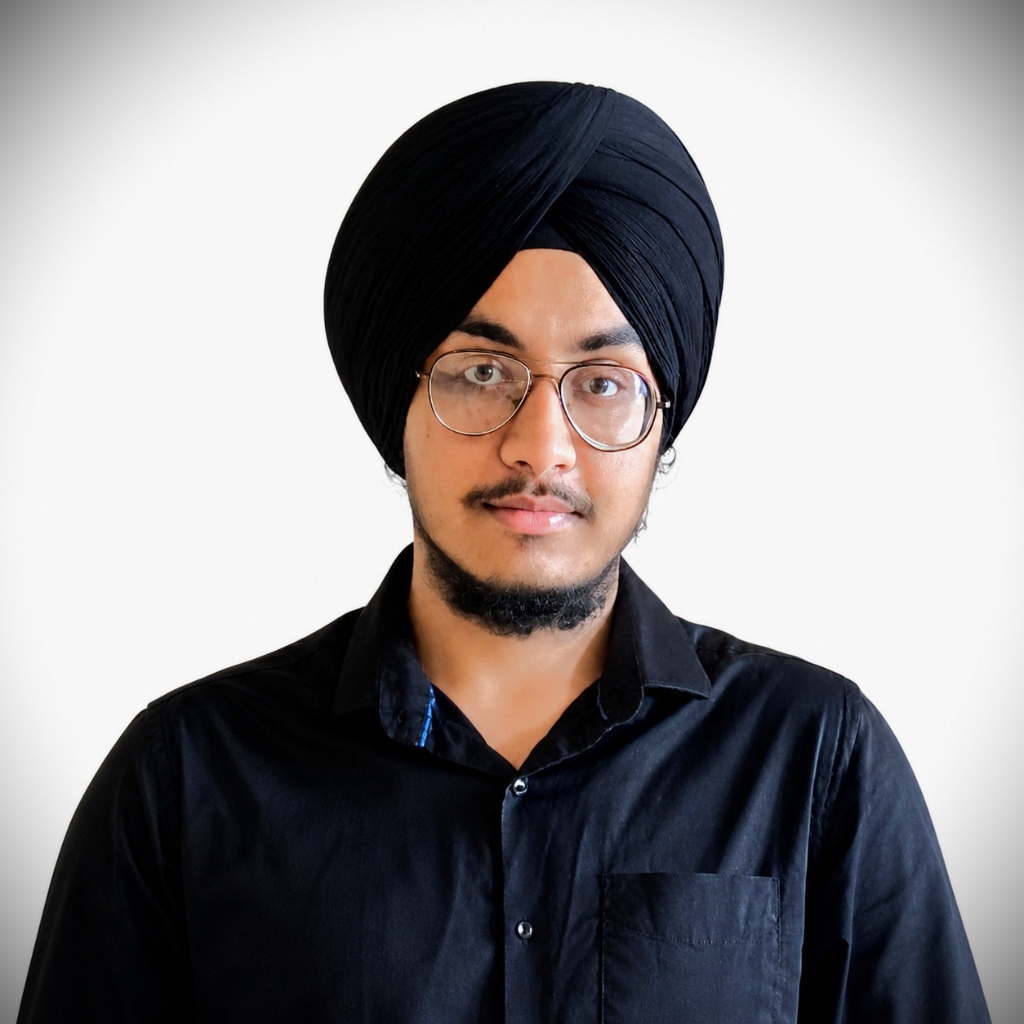
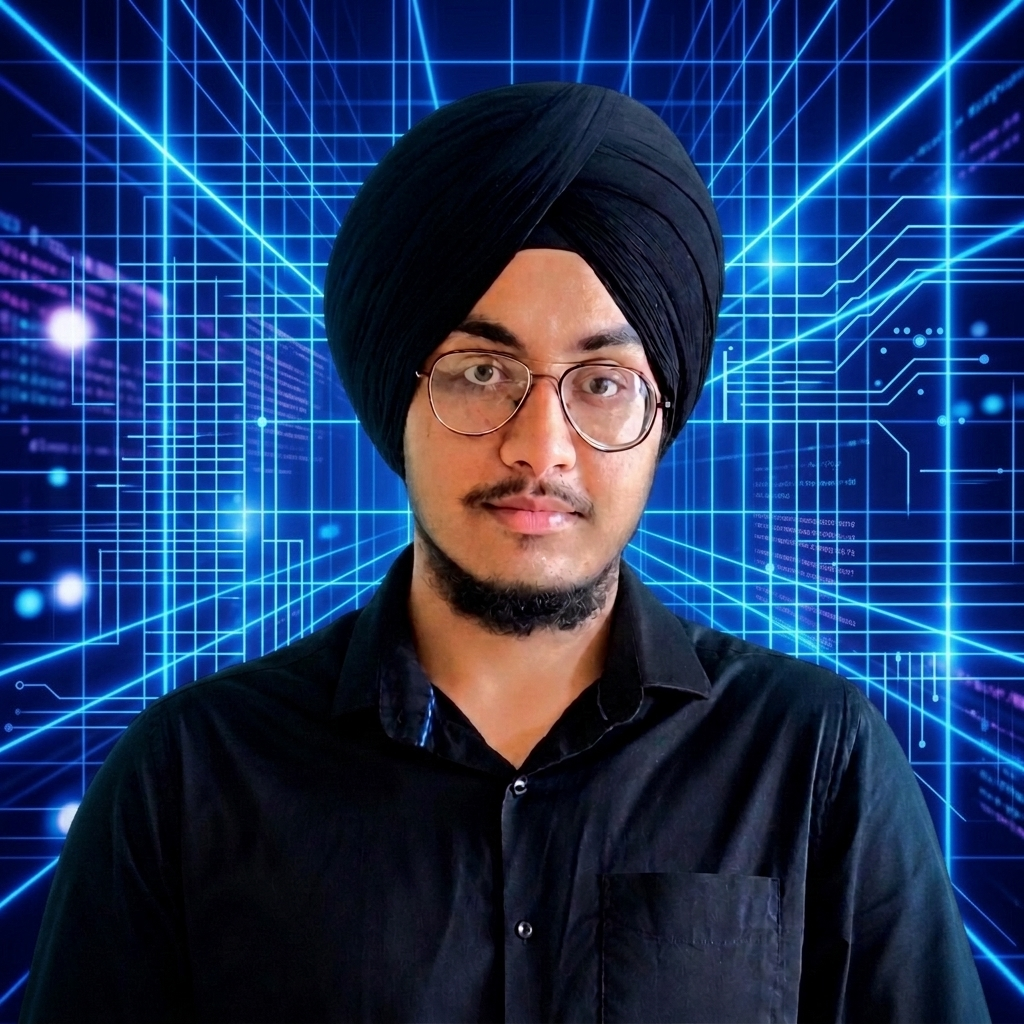
minor changes

diff --git a/app/components/TechStack.tsx b/app/components/TechStack.tsx
@@ -127,6 +127,9 @@ export default function TechStack() {
       id="skills"
       className="relative w-full py-20 md:py-28 px-6 sm:px-12 overflow-hidden flex items-center justify-center bg-transparent z-0"
     >
+      {/* Subtle Blue Atmosphere Continuation (barely noticeable top-left corner glow) */}
+      <div className="absolute top-0 left-0 w-[450px] h-[450px] rounded-full bg-blue-600/3 blur-[120px] pointer-events-none z-0" />
+
       {/* Moving Ambient Blue Gradients */}
       <motion.div
         animate={{
@@ -138,7 +141,7 @@ export default function TechStack() {
           repeat: Infinity,
           ease: "easeInOut",
         }}
-        className="absolute -top-1/4 -left-1/4 w-[600px] h-[600px] rounded-full bg-blue-600/8 blur-[130px] pointer-events-none z-0"
+        className="absolute -top-1/4 -left-1/4 w-[600px] h-[600px] rounded-full bg-blue-600/5 blur-[130px] pointer-events-none z-0"
       />
       <motion.div
         animate={{
@@ -150,7 +153,7 @@ export default function TechStack() {
           repeat: Infinity,
           ease: "easeInOut",
         }}
-        className="absolute -bottom-1/4 -right-1/4 w-[500px] h-[500px] rounded-full bg-indigo-600/6 blur-[110px] pointer-events-none z-0"
+        className="absolute -bottom-1/4 -right-1/4 w-[500px] h-[500px] rounded-full bg-indigo-600/4 blur-[110px] pointer-events-none z-0"
       />
 
       {/* Faint Cyberpunk Grid */}
@@ -166,7 +169,7 @@ export default function TechStack() {
           repeat: Infinity,
           ease: "linear",
         }}
-        className="absolute top-1/4 left-0 right-0 h-[1.5px] bg-gradient-to-r from-transparent via-blue-500/20 to-transparent pointer-events-none z-0"
+        className="absolute top-1/4 left-0 right-0 h-[1.5px] bg-gradient-to-r from-transparent via-blue-500/10 to-transparent pointer-events-none z-0"
       />
       <motion.div
         animate={{
@@ -177,7 +180,7 @@ export default function TechStack() {
           repeat: Infinity,
           ease: "linear",
         }}
-        className="absolute bottom-1/3 left-0 right-0 h-[1px] bg-gradient-to-r from-transparent via-indigo-500/15 to-transparent pointer-events-none z-0"
+        className="absolute bottom-1/3 left-0 right-0 h-[1px] bg-gradient-to-r from-transparent via-indigo-500/08 to-transparent pointer-events-none z-0"
       />
 
       {/* Floating Glowing Particles */}
@@ -195,7 +198,7 @@ export default function TechStack() {
             ease: "easeInOut",
             delay: p.delay,
           }}
-          className="absolute rounded-full bg-blue-500/20 blur-[1px] pointer-events-none z-0"
+          className="absolute rounded-full bg-blue-500/12 blur-[1px] pointer-events-none z-0"
           style={{
             width: p.size,
             height: p.size,

diff --git a/components/ui/animated-shader-hero.tsx b/components/ui/animated-shader-hero.tsx
@@ -333,13 +333,16 @@ export default function AnimatedShaderHero({
 
   return (
     <div className={`relative w-full min-h-screen overflow-hidden bg-[#09090b] md:bg-black ${className}`}>
-      <div className="absolute inset-0 z-0 bg-[radial-gradient(circle_at_50%_18%,rgba(79,70,229,0.36),transparent_34%),linear-gradient(180deg,rgba(30,58,138,0.28),rgba(9,9,11,0.96)_68%)] md:hidden" />
+      <div className="absolute inset-0 z-0 bg-[radial-gradient(circle_at_50%_18%,rgba(79,70,229,0.24),transparent_34%),linear-gradient(180deg,rgba(30,58,138,0.18),rgba(9,9,11,0.98)_68%)] md:hidden" />
       {/* 3D WebGL Shader Canvas Background */}
       <canvas
         ref={canvasRef}
         className="absolute inset-0 hidden w-full h-full object-cover touch-none z-0 md:block"
         style={{ background: "black" }}
       />
+      
+      {/* Subtle dark overlay to dim the shader background (reducing blue overlay glare by 10-15%) */}
+      <div className="absolute inset-0 bg-[#09090b]/15 pointer-events-none z-0 hidden md:block" />
       
       {/* Content wrapper layered cleanly on top of the shader background */}
       <div className="relative w-full h-full z-10">
@@ -410,7 +413,7 @@ void main(void) {
 		float b=noise(i+p+bg*1.731);
 		col+=.002*b/length(max(p,vec2(b*p.x*.02,p.y)));
     
-		col=mix(col,vec3(bg*.04, bg*.12, bg*.32),d);
+		col=mix(col,vec3(bg*.03, bg*.09, bg*.22),d);
 	}
 	O=vec4(col,1);
 }`;
